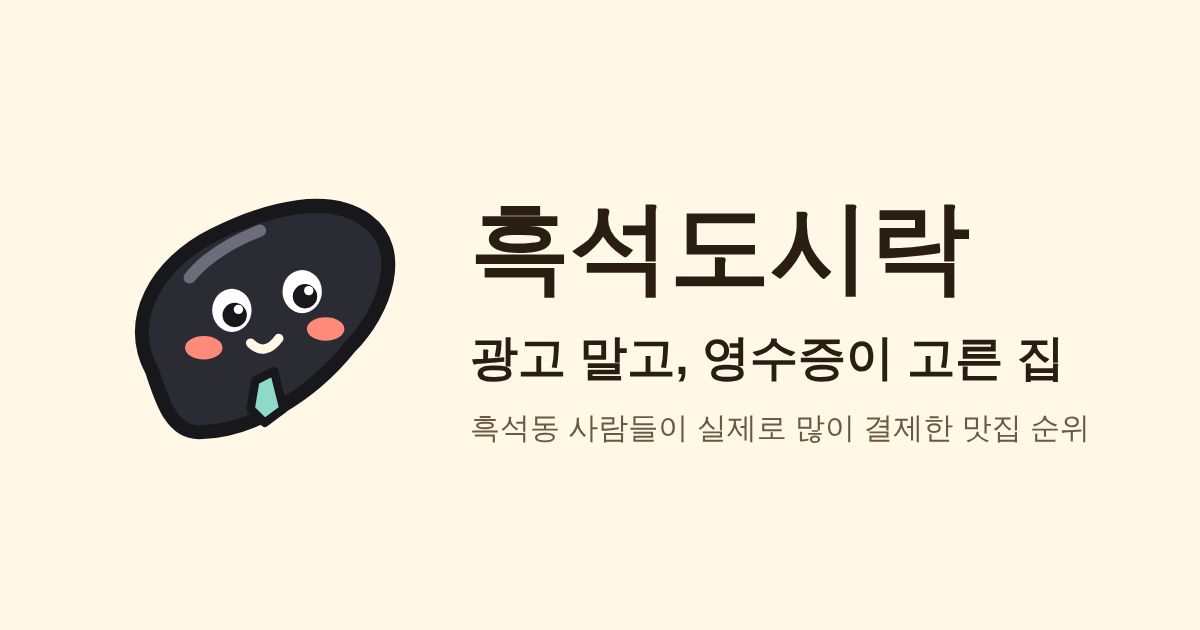
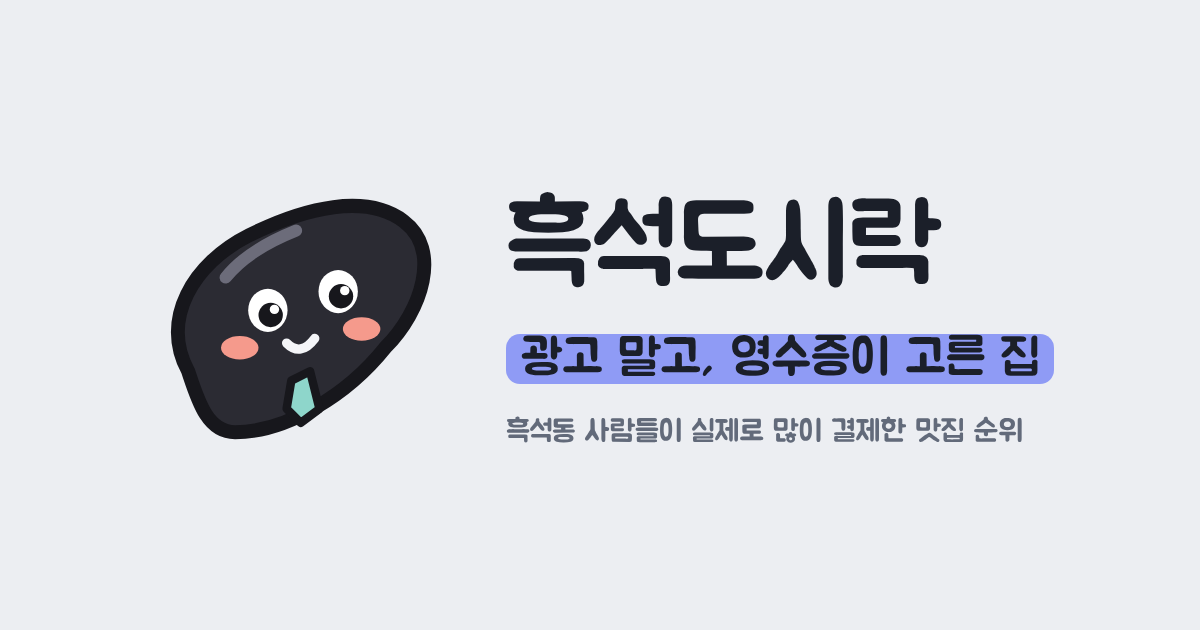
Recolor to light-gray palette with periwinkle, mint and coral accents
Claude-Session: https://claude.ai/code/session_01G1b48Dakujp3n2ZWYomRKB

diff --git a/yeouidosirak/style.css b/yeouidosirak/style.css
@@ -1,21 +1,22 @@
 :root {
-  --ink: #3A2E1F;
-  --ink-deep: #2A1E12;
-  --muted: #6B5A43;
-  --cream: #FFF8E7;
-  --yellow: #FFD45C;
-  --butter: #FFE8A3;
-  --mint: #8FD9C9;
-  --mint-soft: #CFEFE7;
-  --coral: #FF8A7A;
-  --coral-soft: #FFE0DA;
-  --red-num: #C4422F;
-  --line: #D9C9A8;
+  --ink: #2B2F3A;
+  --ink-deep: #1B1F29;
+  --muted: #626A7A;
+  --bg: #ECEEF2;
+  --surface: #F7F8FA;
+  --accent: #8F9BF5;
+  --accent-soft: #DADFFC;
+  --mint: #8ED6CB;
+  --mint-soft: #D3EEEA;
+  --coral: #F59A8C;
+  --coral-soft: #FCE0DB;
+  --red-num: #C0405A;
+  --line: #CBD0DA;
 }
 * { box-sizing: border-box; }
 html { -webkit-text-size-adjust: 100%; }
 body {
-  margin: 0; background: var(--cream); color: var(--ink);
+  margin: 0; background: var(--bg); color: var(--ink);
   font-family: 'Jua', 'Apple SD Gothic Neo', 'Malgun Gothic', system-ui, sans-serif;
   font-synthesis: none;
   font-size: 15px; line-height: 1.5;
@@ -54,7 +55,7 @@ h1, h2, b, strong, button, .logo span, .headline, .pick-title, .jua { font-weigh
 }
 .region b { font-weight: 700; font-size: 15px; }
 .region small { font-size: 10.5px; color: var(--muted); }
-.region[aria-pressed="true"] { background: var(--yellow); box-shadow: 0 3px 0 var(--ink); }
+.region[aria-pressed="true"] { background: var(--accent); box-shadow: 0 3px 0 var(--ink); }
 .region[aria-pressed="true"] small { color: var(--ink-deep); }
 .chips { display: flex; flex-wrap: wrap; gap: 6px; }
 .chip {
@@ -72,17 +73,17 @@ h1, h2, b, strong, button, .logo span, .headline, .pick-title, .jua { font-weigh
   background: #fff; border: 2px solid var(--ink); border-radius: 20px; padding: 12px 14px;
   box-shadow: 0 3px 0 var(--ink); cursor: pointer;
 }
-.row[aria-current="true"] { background: var(--butter); }
+.row[aria-current="true"] { background: var(--accent-soft); }
 .rank {
   width: 34px; height: 34px; flex-shrink: 0; border-radius: 17px; border: 2px solid var(--ink);
   display: flex; align-items: center; justify-content: center;
   font-weight: 700; font-size: 15px; color: var(--ink-deep); background: #fff;
 }
-.row:nth-child(-n+3) .rank { background: var(--yellow); }
+.row:nth-child(-n+3) .rank { background: var(--accent); }
 .row-main { flex: 1; min-width: 0; display: flex; flex-direction: column; gap: 3px; }
 .row-name { font-weight: 700; font-size: 17px; color: var(--ink-deep); overflow: hidden; text-overflow: ellipsis; white-space: nowrap; }
 .tags { display: flex; gap: 4px; flex-wrap: wrap; }
-.tag { font-size: 11px; border-radius: 8px; padding: 1px 6px; color: var(--ink-deep); background: var(--butter); }
+.tag { font-size: 11px; border-radius: 8px; padding: 1px 6px; color: var(--ink-deep); background: var(--accent-soft); }
 .tag.mint { background: var(--mint-soft); }
 .tag.coral { background: var(--coral-soft); }
 .row-num { display: flex; flex-direction: column; align-items: flex-end; flex-shrink: 0; }
@@ -90,11 +91,11 @@ h1, h2, b, strong, button, .logo span, .headline, .pick-title, .jua { font-weigh
 .row-num b { font-weight: 700; font-size: 20px; color: var(--red-num); }
 
 .btn-more {
-  min-height: 48px; border-radius: 24px; border: 2px dashed #B89A5E; background: transparent;
+  min-height: 48px; border-radius: 24px; border: 2px dashed #9AA2B3; background: transparent;
   font-weight: 700; font-size: 16px; cursor: pointer; color: var(--ink-deep);
 }
-.empty { border: 2.5px dashed #B89A5E; border-radius: 20px; padding: 22px 16px; text-align: center; color: var(--muted); }
-.skeleton { height: 70px; border-radius: 20px; background: linear-gradient(90deg, #F4EAD2, #FBF3E0, #F4EAD2); background-size: 200% 100%; animation: shimmer 1.2s infinite; }
+.empty { border: 2.5px dashed #9AA2B3; border-radius: 20px; padding: 22px 16px; text-align: center; color: var(--muted); }
+.skeleton { height: 70px; border-radius: 20px; background: linear-gradient(90deg, #E1E4EA, #EFF1F5, #E1E4EA); background-size: 200% 100%; animation: shimmer 1.2s infinite; }
 @keyframes shimmer { to { background-position: -200% 0; } }
 
 .foot { margin-top: 18px; padding-top: 14px; border-top: 2px dashed var(--line); font-size: 13px; }
@@ -102,7 +103,7 @@ h1, h2, b, strong, button, .logo span, .headline, .pick-title, .jua { font-weigh
 
 /* 맛집 카드 (모바일: 전체 화면 시트 / 데스크톱: 오른쪽 패널) */
 .pane {
-  position: fixed; inset: 0; z-index: 20; overflow-y: auto; background: var(--mint-soft);
+  position: fixed; inset: 0; z-index: 20; overflow-y: auto; background: var(--accent-soft);
   padding: calc(14px + env(safe-area-inset-top)) 20px calc(24px + env(safe-area-inset-bottom));
 }
 .pane-inner { max-width: 440px; margin: 0 auto; display: flex; flex-direction: column; min-height: 100%; }
@@ -122,13 +123,13 @@ h1, h2, b, strong, button, .logo span, .headline, .pick-title, .jua { font-weigh
 @keyframes lid-open { from { transform: translateY(40px) rotate(0); } to { transform: rotate(-7deg); } }
 .lid .dori { position: absolute; right: 0; top: -4px; width: 44px; height: 44px; }
 .box {
-  background: var(--cream); border: 2.5px solid var(--ink); border-radius: 28px; box-shadow: 0 6px 0 var(--ink);
+  background: var(--bg); border: 2.5px solid var(--ink); border-radius: 28px; box-shadow: 0 6px 0 var(--ink);
   padding: 20px 18px; display: flex; flex-direction: column; gap: 14px;
 }
 .card-name { margin: 0; font-size: 23px; line-height: 1.25; color: var(--ink-deep); word-break: keep-all; }
 .stats { display: grid; grid-template-columns: repeat(2, minmax(0, 1fr)); gap: 8px; }
 .stat { border: 2px solid var(--ink); border-radius: 18px; padding: 10px 12px; background: #fff; }
-.stat.hot { background: var(--yellow); }
+.stat.hot { background: var(--accent); }
 .stat small { display: block; font-size: 12px; color: var(--ink-deep); }
 .stat b { font-weight: 700; font-size: 28px; color: var(--ink-deep); }
 .facts { display: flex; flex-direction: column; gap: 8px; margin: 0; }
@@ -141,12 +142,12 @@ h1, h2, b, strong, button, .logo span, .headline, .pick-title, .jua { font-weigh
   display: flex; align-items: center; justify-content: center; gap: 8px; text-decoration: none;
   font-weight: 700; color: var(--ink-deep); border: 2.5px solid var(--ink); cursor: pointer;
 }
-.btn-eat { min-height: 58px; border-radius: 29px; background: var(--yellow); box-shadow: 0 4px 0 var(--ink); font-size: 19px; }
+.btn-eat { min-height: 58px; border-radius: 29px; background: var(--accent); box-shadow: 0 4px 0 var(--ink); font-size: 19px; }
 .btn-sub { min-height: 50px; border-radius: 25px; background: #fff; font-size: 16px; border-width: 2px; }
 .btn-eat:active, .btn-draw:active { transform: translateY(3px); box-shadow: 0 1px 0 var(--ink); }
 
 /* 제비뽑기 */
-.pick { position: fixed; inset: 0; z-index: 30; background: var(--butter); overflow-y: auto; }
+.pick { position: fixed; inset: 0; z-index: 30; background: var(--accent-soft); overflow-y: auto; }
 .pick-inner {
   max-width: 440px; margin: 0 auto; min-height: 100%; display: flex; flex-direction: column; gap: 14px; align-items: stretch;
   padding: calc(14px + env(safe-area-inset-top)) 20px calc(24px + env(safe-area-inset-bottom));
@@ -162,7 +163,7 @@ h1, h2, b, strong, button, .logo span, .headline, .pick-title, .jua { font-weigh
 .cup.shake svg { animation: shake .5s ease-in-out; }
 @keyframes shake { 0%,100% { transform: rotate(0); } 20% { transform: rotate(-9deg); } 40% { transform: rotate(8deg); } 60% { transform: rotate(-6deg); } 80% { transform: rotate(4deg); } }
 .result-card {
-  background: var(--cream); border: 2.5px solid var(--ink); border-radius: 24px; box-shadow: 0 5px 0 var(--ink);
+  background: var(--bg); border: 2.5px solid var(--ink); border-radius: 24px; box-shadow: 0 5px 0 var(--ink);
   padding: 16px 18px; display: flex; flex-direction: column; gap: 10px;
 }
 .result-card .r-name { font-weight: 700; font-size: 23px; color: var(--ink-deep); line-height: 1.25; word-break: keep-all; }
@@ -177,16 +178,16 @@ h1, h2, b, strong, button, .logo span, .headline, .pick-title, .jua { font-weigh
 
 .toast {
   position: fixed; left: 50%; bottom: calc(24px + env(safe-area-inset-bottom)); transform: translateX(-50%); z-index: 50;
-  background: var(--ink); color: var(--cream); border-radius: 16px; padding: 10px 16px; font-size: 14px; max-width: 90vw;
+  background: var(--ink); color: var(--bg); border-radius: 16px; padding: 10px 16px; font-size: 14px; max-width: 90vw;
 }
 
-:focus-visible { outline: 3px solid #1F6FEB; outline-offset: 2px; }
+:focus-visible { outline: 3px solid #3B4CCA; outline-offset: 2px; }
 @media (prefers-reduced-motion: reduce) { *, *::before { animation: none !important; transition: none !important; } }
 
 /* 지도 */
 .map-wrap {
   position: relative; isolation: isolate; height: 260px; border-radius: 24px; overflow: hidden;
-  border: 2.5px solid var(--ink); box-shadow: 0 4px 0 var(--ink); background: var(--mint-soft);
+  border: 2.5px solid var(--ink); box-shadow: 0 4px 0 var(--ink); background: var(--accent-soft);
 }
 .map { position: absolute; inset: 0; }
 .map-toggle {
@@ -196,11 +197,11 @@ h1, h2, b, strong, button, .logo span, .headline, .pick-title, .jua { font-weigh
 }
 .map-wrap.big { position: fixed; inset: 0; z-index: 25; height: auto; border-radius: 0; border: 0; box-shadow: none; }
 .map-wrap.big .map-toggle { bottom: calc(18px + env(safe-area-inset-bottom)); right: 16px; min-height: 48px; font-size: 16px; }
-.leaflet-container { font-family: 'Pretendard Variable', Pretendard, sans-serif; background: #EDE6D6; }
+.leaflet-container { font-family: 'Jua', sans-serif; background: #E3E6EC; }
 .pin-wrap { background: none; border: 0; }
 .pin {
   display: flex; align-items: center; justify-content: center; width: 30px; height: 30px; margin: 0 auto;
-  border-radius: 50% 50% 50% 4px; transform: rotate(-45deg); background: var(--yellow);
+  border-radius: 50% 50% 50% 4px; transform: rotate(-45deg); background: var(--accent);
   border: 2.5px solid var(--ink); box-shadow: 0 2px 0 var(--ink);
   font-weight: 700; font-size: 14px; color: var(--ink-deep);
 }
@@ -210,7 +211,7 @@ h1, h2, b, strong, button, .logo span, .headline, .pick-title, .jua { font-weigh
 .leaflet-tooltip { font-weight: 700; font-size: 13px; color: var(--ink-deep); border: 2px solid var(--ink); border-radius: 10px; box-shadow: none; }
 
 /* 제비뽑기 조건 */
-.pick-filters { display: flex; flex-direction: column; gap: 6px; background: #FFF8E7; border: 2px solid var(--ink); border-radius: 22px; padding: 12px; }
+.pick-filters { display: flex; flex-direction: column; gap: 6px; background: var(--surface); border: 2px solid var(--ink); border-radius: 22px; padding: 12px; }
 .pick-filters .f-label { margin-top: 2px; }
 .regions.small .region { min-height: 48px; border-radius: 14px; }
 .regions.small .region b { font-size: 14px; }
@@ -239,6 +240,9 @@ h1, h2, b, strong, button, .logo span, .headline, .pick-title, .jua { font-weigh
 
 /* 가격대 · 길찾기 */
 .f-label small { font-size: 11px; opacity: .8; }
-.tag.price { background: #FFF1C2; }
+.tag.price { background: var(--accent-soft); }
 .route { display: grid; grid-template-columns: 1fr 1fr; gap: 8px; }
-.route .route-main { grid-column: 1 / -1; background: var(--yellow); box-shadow: 0 3px 0 var(--ink); }
+.route .route-main { grid-column: 1 / -1; background: var(--accent); box-shadow: 0 3px 0 var(--ink); }
+
+/* 지도 타일 색을 화면 색에 맞춰 살짝 가라앉힌다 */
+.leaflet-tile-pane { filter: saturate(.7) contrast(.96); }

diff --git a/yeouidosirak/index.html b/yeouidosirak/index.html
@@ -9,7 +9,7 @@
 <meta property="og:title" content="흑석도시락 🍱 광고 말고 영수증이 고른 집">
 <meta property="og:description" content="흑석동 사람들 영수증, 돌돌이가 몰래 봤어요. 고민되면 젓가락 제비뽑기!">
 <meta property="og:image" content="https://heukseokdosirak.vercel.app/og.png">
-<meta name="theme-color" content="#FFF8E7">
+<meta name="theme-color" content="#ECEEF2">
 <link rel="icon" href="/favicon.svg" type="image/svg+xml">
 <link rel="preconnect" href="https://fonts.googleapis.com">
 <link rel="preconnect" href="https://fonts.gstatic.com" crossorigin>
@@ -95,16 +95,16 @@
     <div class="pick-stage">
       <div class="cup" id="cup" aria-hidden="true">
         <svg viewBox="0 0 240 270">
-          <rect x="78" y="40" width="10" height="130" rx="4" fill="#C98B5A" stroke="#3A2E1F" stroke-width="2" transform="rotate(-10 83 170)"/>
-          <rect x="100" y="30" width="10" height="140" rx="4" fill="#E0A877" stroke="#3A2E1F" stroke-width="2" transform="rotate(-4 105 170)"/>
-          <rect x="130" y="30" width="10" height="140" rx="4" fill="#C98B5A" stroke="#3A2E1F" stroke-width="2" transform="rotate(4 135 170)"/>
-          <rect x="152" y="40" width="10" height="130" rx="4" fill="#E0A877" stroke="#3A2E1F" stroke-width="2" transform="rotate(10 157 170)"/>
-          <rect class="lucky" x="114" y="20" width="12" height="150" rx="5" fill="#FF8A7A" stroke="#3A2E1F" stroke-width="2.5"/>
-          <path d="M50 130 H190 L176 250 Q174 262 162 262 H78 Q66 262 64 250 Z" fill="#8FD9C9" stroke="#3A2E1F" stroke-width="3" stroke-linejoin="round"/>
-          <path d="M44 122 H196 Q202 122 202 128 V136 Q202 142 196 142 H44 Q38 142 38 136 V128 Q38 122 44 122 Z" fill="#fff" stroke="#3A2E1F" stroke-width="3"/>
-          <circle cx="102" cy="190" r="5" fill="#3A2E1F"/><circle cx="138" cy="190" r="5" fill="#3A2E1F"/>
-          <ellipse cx="90" cy="204" rx="8" ry="5" fill="#FF8A7A"/><ellipse cx="150" cy="204" rx="8" ry="5" fill="#FF8A7A"/>
-          <path d="M112 206 Q120 214 128 206" stroke="#3A2E1F" stroke-width="3" fill="none" stroke-linecap="round"/>
+          <rect x="78" y="40" width="10" height="130" rx="4" fill="#C98B5A" stroke="#2B2F3A" stroke-width="2" transform="rotate(-10 83 170)"/>
+          <rect x="100" y="30" width="10" height="140" rx="4" fill="#E0A877" stroke="#2B2F3A" stroke-width="2" transform="rotate(-4 105 170)"/>
+          <rect x="130" y="30" width="10" height="140" rx="4" fill="#C98B5A" stroke="#2B2F3A" stroke-width="2" transform="rotate(4 135 170)"/>
+          <rect x="152" y="40" width="10" height="130" rx="4" fill="#E0A877" stroke="#2B2F3A" stroke-width="2" transform="rotate(10 157 170)"/>
+          <rect class="lucky" x="114" y="20" width="12" height="150" rx="5" fill="#F59A8C" stroke="#2B2F3A" stroke-width="2.5"/>
+          <path d="M50 130 H190 L176 250 Q174 262 162 262 H78 Q66 262 64 250 Z" fill="#8ED6CB" stroke="#2B2F3A" stroke-width="3" stroke-linejoin="round"/>
+          <path d="M44 122 H196 Q202 122 202 128 V136 Q202 142 196 142 H44 Q38 142 38 136 V128 Q38 122 44 122 Z" fill="#fff" stroke="#2B2F3A" stroke-width="3"/>
+          <circle cx="102" cy="190" r="5" fill="#2B2F3A"/><circle cx="138" cy="190" r="5" fill="#2B2F3A"/>
+          <ellipse cx="90" cy="204" rx="8" ry="5" fill="#F59A8C"/><ellipse cx="150" cy="204" rx="8" ry="5" fill="#F59A8C"/>
+          <path d="M112 206 Q120 214 128 206" stroke="#2B2F3A" stroke-width="3" fill="none" stroke-linecap="round"/>
         </svg>
       </div>
       <p class="pick-scope" id="pick-scope" aria-live="polite"></p>
@@ -124,9 +124,9 @@
       <ellipse cx="26" cy="31" rx="4.2" ry="4.6" fill="#fff"/><ellipse cx="41" cy="27" rx="4.2" ry="4.6" fill="#fff"/>
       <circle cx="26.6" cy="32" r="2.6" fill="#17171C"/><circle cx="41.6" cy="28" r="2.6" fill="#17171C"/>
       <circle cx="27.4" cy="30.8" r="1" fill="#fff"/><circle cx="42.4" cy="26.8" r="1" fill="#fff"/>
-      <ellipse cx="20" cy="39" rx="4" ry="2.5" fill="#FF8A7A"/><ellipse cx="46" cy="35" rx="4" ry="2.5" fill="#FF8A7A"/>
-      <path d="M30 38 Q33 41 36 37" stroke="#FFF8E7" stroke-width="2" fill="none" stroke-linecap="round"/>
-      <path d="M31 46 L35 44 L37 52 L33 55 L30 52 Z" fill="#8FD9C9" stroke="#17171C" stroke-width="1.8" stroke-linejoin="round"/>
+      <ellipse cx="20" cy="39" rx="4" ry="2.5" fill="#F59A8C"/><ellipse cx="46" cy="35" rx="4" ry="2.5" fill="#F59A8C"/>
+      <path d="M30 38 Q33 41 36 37" stroke="#F4F5F8" stroke-width="2" fill="none" stroke-linecap="round"/>
+      <path d="M31 46 L35 44 L37 52 L33 55 L30 52 Z" fill="#8ED6CB" stroke="#17171C" stroke-width="1.8" stroke-linejoin="round"/>
     </g>
   </defs>
 </svg>
